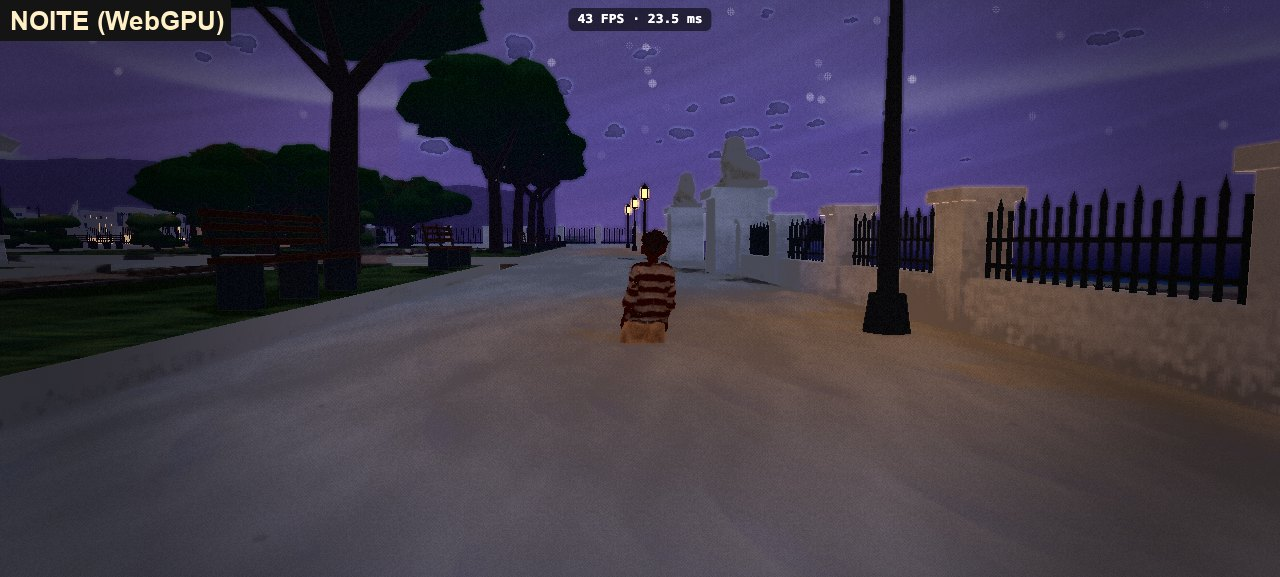
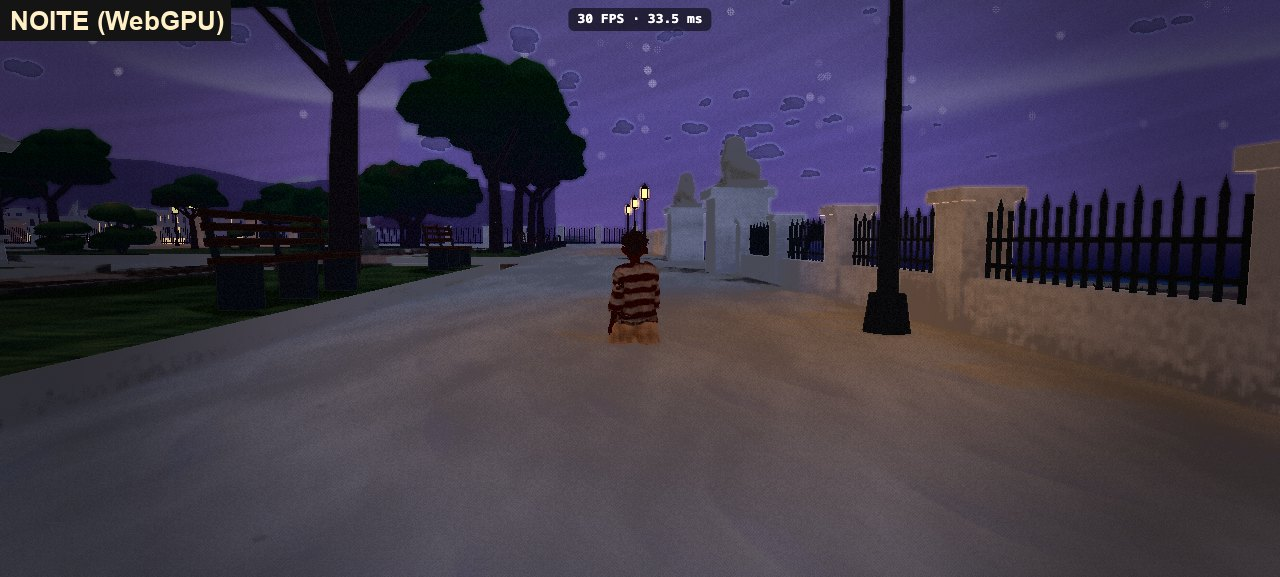
Passeio Público: menos cajueiro e menos arbusto nas quadras (300 mil triângulos, eram 410 mil)
A contagem por malha mostrou que o peso do Passeio era a vegetação, não o marco: o cajueiro tem 4,3
mil triângulos por cópia (o oiti 1,4 mil) e havia três muricis por árvore. Agora um cajueiro em cada
três árvores e um ou dois arbustos por árvore. O marco em si (muros, gradil, estátuas, usina) segue
com ~83 mil triângulos em 30 malhas; a Sé tem 13,5 mil em 17 e a Estação 26 mil em 15.
Fotos do Passeio refeitas com a vegetação nova.

diff --git a/src/mundo/passeio1932.js b/src/mundo/passeio1932.js
@@ -305,9 +305,11 @@ function plantar(cena, o, lista) {
     const [, a, b, c, d] = it
     const lx = rnd.entre(a, b)
     const lz = rnd.entre(c, d)
-    por(rnd.chance(0.5) ? 'quadra' : 'quadra2', lx, lz, rnd.entre(0.8, 1.15))
+    // o cajueiro tem a copa mais cara (4,3 mil triângulos, o oiti 1,4 mil): um em cada três; um ou dois arbustos
+    por(rnd.chance(0.33) ? 'quadra' : 'quadra2', lx, lz, rnd.entre(0.8, 1.15))
     o.coluna(lx, lz, 0.4)
-    for (let k = 0; k < 3; k++) por('arbusto', rnd.entre(a, b), rnd.entre(c, d), rnd.entre(0.7, 1.1))
+    const nArb = rnd.chance(0.5) ? 2 : 1
+    for (let k = 0; k < nArb; k++) por('arbusto', rnd.entre(a, b), rnd.entre(c, d), rnd.entre(0.7, 1.1))
   }
   const mat = toonVertice()
   for (const [k, l] of Object.entries(mats)) if (l.length) instanciarEmBlocos(cena, geos[k], mat, l, null, { nome: `passeio-${k}`, placa: true })
